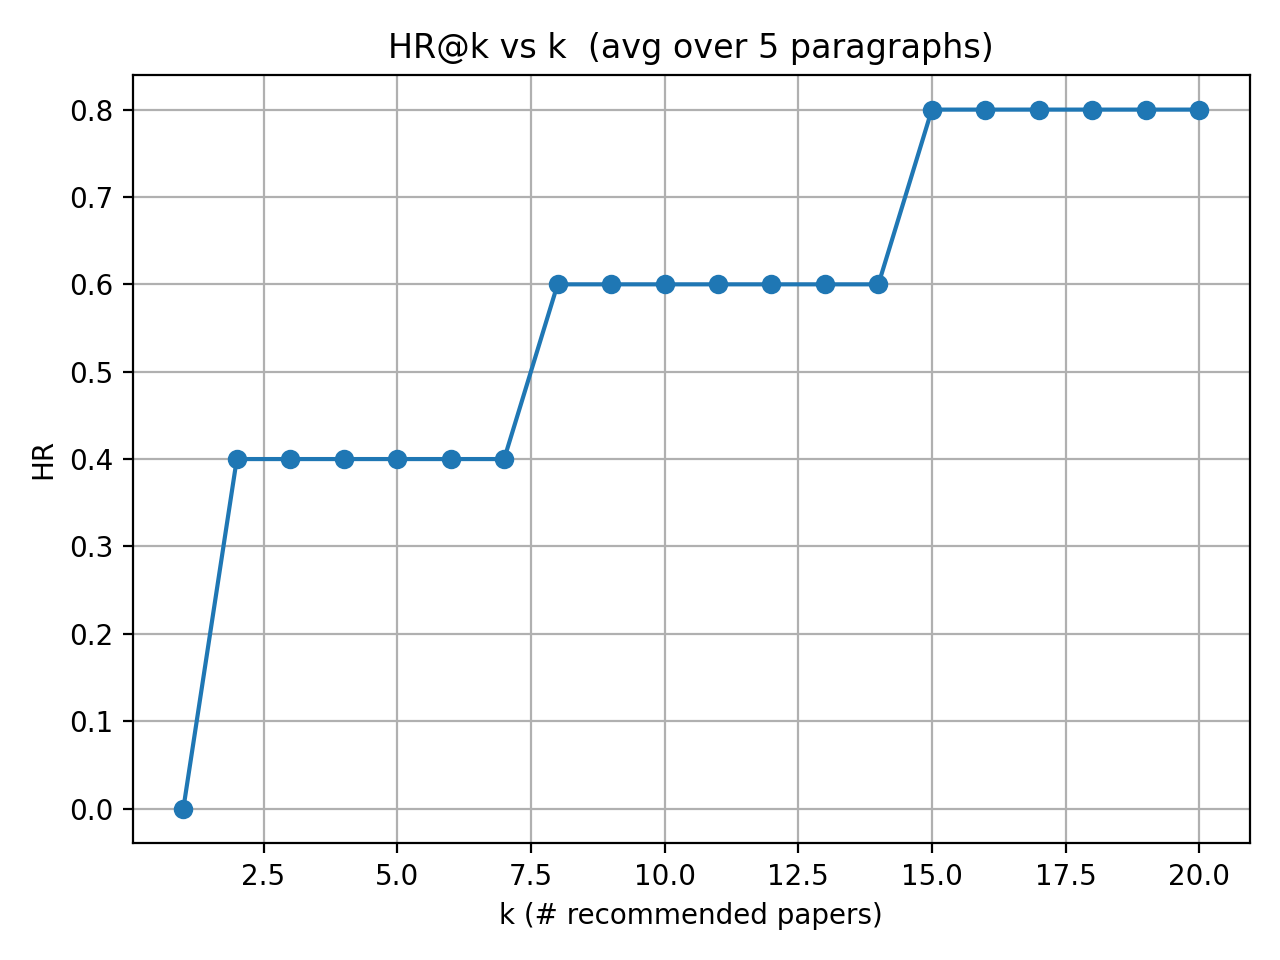
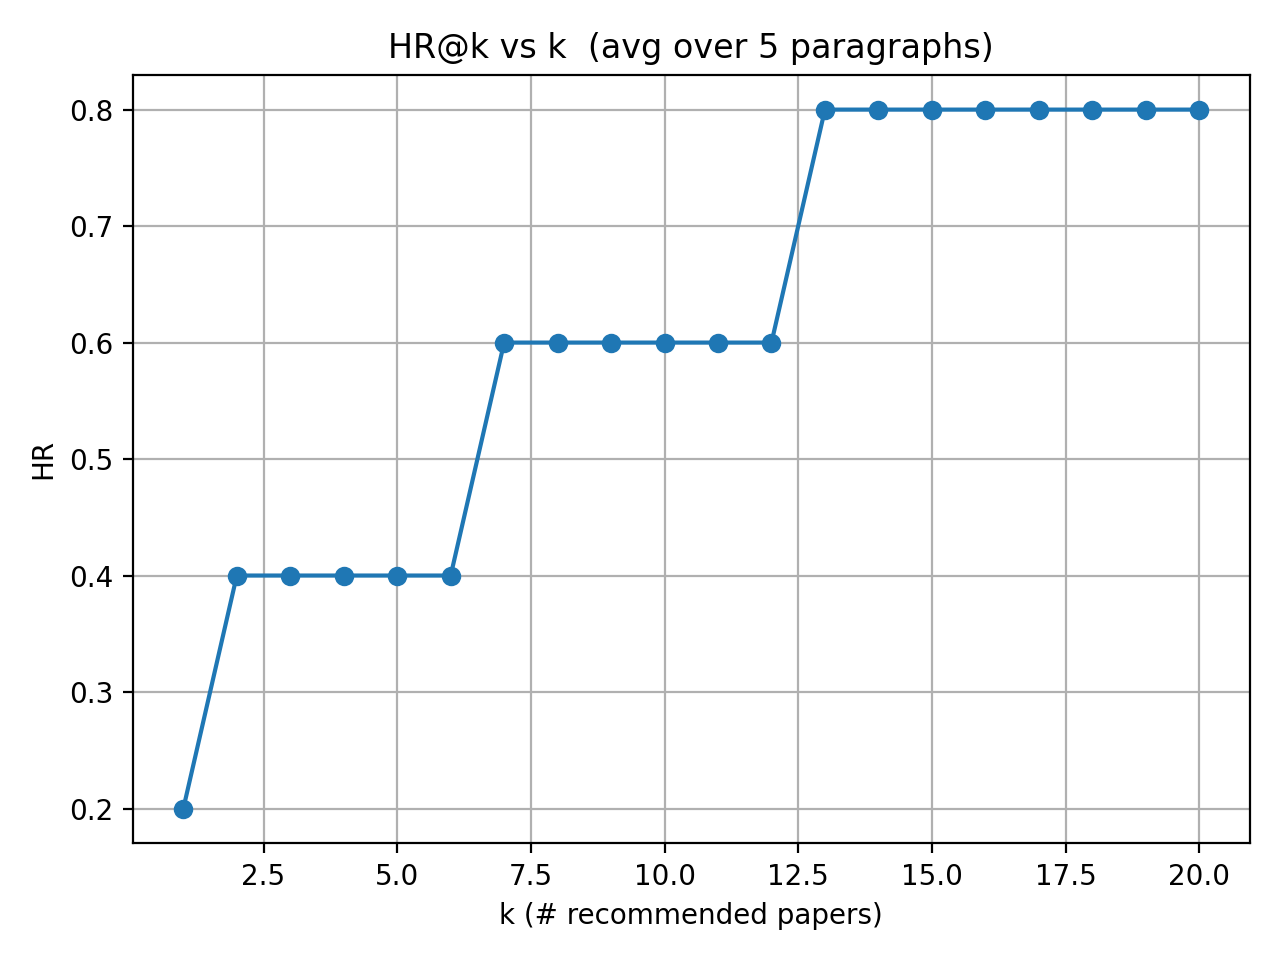
Added comments

diff --git a/main/llm/eval_llm_full.py b/main/llm/eval_llm_full.py
@@ -1,6 +1,5 @@
 
-# This is new evaluation code. It considers only 
-
+# This is full BM25 only - no hops, no chunks
 from __future__ import annotations
 import os
 import numpy as np
@@ -18,13 +17,11 @@ from recall import (
 from rerank_llm import rerank_batch, RerankError  # returns DataFrame with pid, score
 import matplotlib.pyplot as plt         
 
-
 # config
 TESTSET_PATH  = Path(os.getenv("TESTSET_PATH", "/home/abhi/Desktop/Manami/recommender-system/datasets/testset_2020_references.jsonl"))
-MAX_CASES     = int(os.getenv("MAX_CASES", 5)) # Number of test cases to evaluate
+MAX_CASES     = int(os.getenv("MAX_CASES", 100)) # Number of test cases to evaluate
 SIM_THRESHOLD = float(os.getenv("SIM_THRESHOLD", 0.95))
 TOPK_LIST     = (1, 2, 3, 4, 5, 6, 7, 8, 9, 10, 11, 12, 13, 14, 15, 16, 17, 18, 19, 20) # K-values for evaluation metrics
-
 
 # Neo4j connection
 _NEO4J_URI  = os.getenv("NEO4J_URI",  "bolt://localhost:7687")
@@ -35,9 +32,10 @@ _driver     = GraphDatabase.driver(_NEO4J_URI, auth=(_NEO4J_USER, _NEO4J_PASS))
 # Tokenizer for chunking
 TOKENIZER  = AutoTokenizer.from_pretrained("meta-llama/Meta-Llama-3.1-8B-Instruct", use_fast=True)
 
-# helpers
+# cosine similarity 
 def cosine_matrix(a: np.ndarray, b: np.ndarray) -> np.ndarray:
     return a @ b.T
+
 
 def evaluate_case(
     paragraph: str,
@@ -48,47 +46,53 @@ def evaluate_case(
     # so that BM25 and embeddings both work on normalized text.
     cleaned = clean_text(paragraph)
 
-    # 1) This runs a full-text BM25 search over my paragraph document index, returning the top 40 candidate paper IDs along with their BM25 scores.
-    bm25 = recall_fulltext(cleaned, k=20)
+    # This runs a full-text BM25 search over my paragraph document index, returning the top 40 candidate paper IDs (because many abstract might be missed) along with their BM25 scores.
+    # BM25 does consider paragraph length as well so better than tf-idf
+    bm25 = recall_fulltext(cleaned, k=50)
 
-    # 2) I pull each candidate’s abstract and publication year from Neo4j, 
-    # drop any papers missing an abstract, and filter out papers published after the paragraph’s target year.
+    # I pull each candidate’s abstract and publication year from Neo4j, 
+    # drop any papers missing an abstract. 
     meta   = fetch_metadata(bm25["pid"].tolist())
     merged = (
         bm25
         .merge(meta[["pid", "title", "abstract", "year"]], on="pid", how="left")
         .dropna(subset=["abstract"])
+        .sort_values("bm25_score", ascending=False)   # explicit sort
+        .head(20)
     )
+
+    # This fillter out the future papers but now the year is set to 2020 (latest in the dataset) so it does not matter. 
     if target_year is not None:
         merged = merged[merged["year"] < target_year]
     if merged.empty:
         raise ValueError("Empty candidate set after filtering by year and abstract")
-
+    
+    # Ask the LLM to rerank your 20 candidates by relevance to the paragraph.
     try:
         reranked = rerank_batch(
             paragraph,
             merged[["pid","title","abstract"]],
             k=20,
-            # batch_size=…  you can tune this
         )
         final_pids = reranked["pid"].tolist()
+    # On failure, just keep the original BM25 ordering.
     except RerankError as e:
         print("⚠ Rerank failed, fallback to BM25 order:", e)
         final_pids = merged["pid"].tolist()
 
-    # 3) fetch and embed all the true reference papers’ abstracts. 
+    # fetch and embed all the true reference papers’ abstracts. 
     # If none have valid abstracts, create a zero-matrix so that nothing is ever “similar.”
     ref_meta = fetch_metadata([str(p) for p in true_pids]).dropna(subset=["abstract"])
     ref_ids  = list(ref_meta["pid"])
     ref_embs = np.stack([embed(a) for a in ref_meta["abstract"]]) if ref_ids else np.zeros((0,768))
 
-
-    # 7) Embed each candidate’s abstract
+    # Embed each candidate’s abstract
     cand_meta = merged.set_index("pid").loc[final_pids]
     cand_absts = cand_meta["abstract"].tolist()
     cand_embs  = np.stack([embed(a) for a in cand_absts])
 
-    # 8) Compute full similarity matrix: candidates × references
+    # Keep the references still unmatched 
+    # If the similarity is more than 0.95, mark that candidate as a hit and remove the reference from future matching.
     sims      = cosine_matrix(cand_embs, ref_embs) if ref_ids else np.zeros((len(final_pids),0))
     unmatched = set(range(len(ref_ids)))
     hits      = []
@@ -97,10 +101,14 @@ def evaluate_case(
         if not unmatched:
             hits.append(False)
             continue
+
+        # look only at still‐unmatched references
         ref_idxs = list(unmatched)
         sim_vals = sims[i, ref_idxs]
         j = sim_vals.argmax()
         if sim_vals[j] >= SIM_THRESHOLD:
+
+            # mark both candidate as hit, and remove that ref
             hits.append(True)
             unmatched.remove(ref_idxs[j])
         else:
@@ -124,11 +132,12 @@ def evaluate_case(
         out.update({f"P@{k}": p_at_k, f"HR@{k}": hr_at_k, f"R@{k}": r_at_k, f"NDCG@{k}": ndcg})
     return out
 
-# main function
-# Runs evaluation over the test cases and prints the average metrics.
+
 import matplotlib
 matplotlib.use("Agg") 
 
+# main function
+# Runs evaluation over the test cases and prints the average metrics.
 def main() -> None:
     if not TESTSET_PATH.exists():
         raise FileNotFoundError(f"Testset not found at {TESTSET_PATH}")
@@ -144,7 +153,7 @@ def main() -> None:
         )
     metric_df = pd.DataFrame(metrics)
     ks = np.array(TOPK_LIST)
-    # 2) evaluate each paragraph and tag with method name
+
     rows: List[dict] = []
     for rec in df.to_dict("records"):
         m = evaluate_case(
@@ -152,23 +161,13 @@ def main() -> None:
             [str(pid) for pid in rec.get("references", [])],
             rec.get("year")
         )
-        m["method"] = "bm25_full_llm"   # change this tag per script
+        m["method"] = "bm25_full_llm"  
         rows.append(m)
-
-    # 3) build DataFrame, write to CSV
-    metric_df = pd.DataFrame(rows)
-    out_csv   = Path(__file__).parent / "eval" / "metrics_bm25_full_llm.csv"
-    metric_df.to_csv(out_csv, index=False)
-    print(f"\nSaved per‐paragraph metrics to {out_csv}")
-
-    # 4) (optional) print average metrics
-    avg = metric_df.mean(numeric_only=True).round(4)
-    print("\nAverage metrics:\n", avg)
 
     for prefix in ["P", "HR", "R", "NDCG"]:
         y = metric_df[[f"{prefix}@{k}" for k in ks]].mean().values
 
-        # 1) create & plot
+        # create & plot
         plt.figure()
         plt.plot(ks, y, marker="o")
         plt.title(f"{prefix}@k vs k  (averaged over {len(metric_df)} paragraphs)")
@@ -178,13 +177,21 @@ def main() -> None:
         plt.tight_layout()
         plt.show()
 
-        # 2) save and close
-        plt.savefig(Path(__file__).parent / "csv" / f"{prefix.lower()}_atk.png", dpi=200)
+        # save and close
+        plt.savefig(Path(__file__).parent / "eval" / f"{prefix.lower()}_atk.png", dpi=200)
         plt.close()
 
     avg = pd.DataFrame(metrics).mean(numeric_only=True)
     print("\nEvaluation with RRF + LLM scoring - avg metrics:\n", avg.round(4))
 
+    # build DataFrame and write to CSV
+    metric_df = pd.DataFrame(rows)
+    out_csv   = Path(__file__).parent / "csv" / "metrics_bm25_full_llm.csv"
+    metric_df.to_csv(out_csv, index=False)
+    print(f"\nSaved per‐paragraph metrics to {out_csv}")
+
+    avg = metric_df.mean(numeric_only=True).round(4)
+    print("\nAverage metrics:\n", avg)
 
 if __name__ == "__main__":
     main()

diff --git a/main/llm/eval_bm25.py b/main/llm/eval_bm25.py
@@ -1,5 +1,4 @@
-# BM25 full search 
-
+# BM25 full-only search 
 import os
 from pathlib import Path
 from typing import List, Optional
@@ -14,44 +13,20 @@ import matplotlib.pyplot as plt
 
 # Hard-coded testset path and params
 TESTSET_PATH   = Path("/home/abhi/Desktop/Manami/recommender-system/datasets/testset_2020_references.jsonl")
-MAX_CASES      = 5
+MAX_CASES      = 100  # How many paragraphs to consider
 SIM_THRESHOLD  = 0.95
 TOPK_LIST     = (1, 2, 3, 4, 5, 6, 7, 8, 9, 10, 11, 12, 13, 14, 15, 16, 17, 18, 19, 20) # K-values for evaluation metrics
 
-# Neo4j
+# Neo4j database
 NEO4J_URI  = os.getenv("NEO4J_URI",  "bolt://localhost:7687")
 NEO4J_USER = os.getenv("NEO4J_USER", "neo4j")
 NEO4J_PASS = os.getenv("NEO4J_PASS", "Manami1008")
 driver     = GraphDatabase.driver(NEO4J_URI, auth=(NEO4J_USER, NEO4J_PASS))
 
 
-# cosign similarity, precision, HR, recall, NDCG, year sort
+# cosign similarity
 def cosine_matrix(a: np.ndarray, b: np.ndarray) -> np.ndarray:
     return a @ b.T
-
-def precision_by_sim(pred, sim_map, k):
-    return sum(sim_map.get(p, False) for p in pred[:k]) / k if k else 0.0
-
-def recall_by_sim(pred, sim_map, k, n_rel):
-    if n_rel == 0: return 0.0
-    return sum(sim_map.get(p, False) for p in pred[:k]) / n_rel
-
-def hit_rate_by_sim(pred, sim_map, k):
-    return float(any(sim_map.get(p, False) for p in pred[:k]))
-
-def ndcg_by_sim(pred, sim_map, k):
-    rels  = [1 if sim_map.get(p, False) else 0 for p in pred[:k]]
-    dcg   = sum(r / np.log2(i+2) for i, r in enumerate(rels))
-    ideal = sorted(rels, reverse=True)
-    idcg  = sum(r / np.log2(i+2) for i, r in enumerate(ideal))
-    return dcg/idcg if idcg > 0 else 0.0
-
-def fetch_year_by_doi(doi: Optional[str]) -> Optional[int]:
-    if not doi: return None
-    query = "MATCH (p:Paper {doi: $doi}) RETURN p.year AS year"
-    with driver.session() as sess:
-        rec = sess.run(query, doi=doi).single()
-    return rec["year"] if rec and rec["year"] is not None else None
 
 
 def evaluate_case(
@@ -64,36 +39,41 @@ def evaluate_case(
     # so that BM25 and embeddings both work on normalized text.
     cleaned = clean_text(paragraph)
 
-    # 1) This runs a full-text BM25 search over my paragraph document index, returning the top 40 candidate paper IDs along with their BM25 scores.
-    bm25 = recall_fulltext(cleaned, k=20)
+    # This runs a full-text BM25 search over my paragraph document index, returning the top 40 candidate paper IDs (because many abstract might be missed) along with their BM25 scores.
+    # BM25 does consider paragraph length as well so better than tf-idf
+    bm25 = recall_fulltext(cleaned, k=50)
 
-    # 2) I pull each candidate’s abstract and publication year from Neo4j, 
-    # drop any papers missing an abstract, and filter out papers published after the paragraph’s target year.
+    # I pull each candidate’s abstract and publication year from Neo4j, 
+    # drop any papers missing an abstract. 
     meta   = fetch_metadata(bm25["pid"].tolist())
     merged = (
         bm25
         .merge(meta[["pid","abstract","year"]], on="pid", how="left")
-        .dropna(subset=["abstract"])
+        .dropna(subset=["abstract"]) 
+        .sort_values("bm25_score", ascending=False)   # explicit sort
+        .head(20)
     )
+
+    # This fillter out the future papers but now the year is set to 2020 (latest in the dataset) so it does not matter. 
     if target_year is not None:
         merged = merged[merged["year"] < target_year]
 
-    # 3) fetch and embed all the true reference papers’ abstracts. 
+    # fetch and embed all the true reference papers’ abstracts. 
     # If none have valid abstracts, create a zero-matrix so that nothing is ever “similar.”
     ref_meta = fetch_metadata([str(p) for p in true_pids]).dropna(subset=["abstract"])
     ref_ids  = list(ref_meta["pid"])
     ref_embs = np.stack([embed(a) for a in ref_meta["abstract"]]) if ref_ids else np.zeros((0,768))
 
-
-    # 7) Embed each candidate’s abstract
+    # Embed each candidate’s abstract
     cand_ids   = merged["pid"].tolist()
     cand_absts = merged["abstract"].tolist()
     cand_embs  = np.stack([embed(a) for a in cand_absts])
 
-    # 8) Compute full similarity matrix: candidates × references
+    # Compute full similarity matrix: candidates × references
     sims = cosine_matrix(cand_embs, ref_embs)  # shape (n_cand, n_ref)
 
-    # 9) Greedy one‐to‐one matching at threshold
+    # Keep the references still unmatched 
+    # If the similarity is more than 0.95, mark that candidate as a hit and remove the reference from future matching.
     unmatched = set(range(len(ref_ids)))   # indices of refs not yet covered
     hits      = []  # for each candidate, store whether it “covers” a new ref
 
@@ -114,7 +94,7 @@ def evaluate_case(
         else:
             hits.append(False)
 
-    # 10) Build metrics using this “hits” list
+    # these are the metrics to show the accuracy of the system 
     n_rel = len(ref_ids)
     results = {}
     for k in TOPK_LIST:
@@ -126,7 +106,6 @@ def evaluate_case(
         idcg = sum(1 / np.log2(i + 2) for i in range(min(n_rel, k)))
         ndcg = (dcg / idcg) if idcg else 0.0
         results.update({f"P@{k}": p_at_k, f"HR@{k}": hr_at_k, f"R@{k}": r_at_k, f"NDCG@{k}": ndcg})
-
     return results
 
 def main() -> None:
@@ -145,7 +124,7 @@ def main() -> None:
     print("\nBM25 + LLM rerank (k=20) average metrics:\n")
     print(metric_df.mean(numeric_only=True).round(4))
 
-    # plotting (optional)
+    # plotting 
     ks = np.array(TOPK_LIST)
     for prefix in ["P","HR","R","NDCG"]:
         y = metric_df[[f"{prefix}@{k}" for k in ks]].mean().values
@@ -169,12 +148,12 @@ def main() -> None:
         m["method"] = "bm25_full"                   
         rows.append(m)
 
-    # 3) build DataFrame and write to CSV
+    # build DataFrame and write to CSV
     metric_df = pd.DataFrame(rows)
     out_path = Path(__file__).parent / "csv" / "metrics_bm25_full.csv"
     metric_df.to_csv(out_path, index=False)
 
-    # 4) print average metrics
+    # print average metrics
     print("\nBM25 full-text average metrics:\n",
           metric_df.mean(numeric_only=True).round(4))
 

diff --git a/main/llm/eval_ctx_llm.py b/main/llm/eval_ctx_llm.py
@@ -1,6 +1,5 @@
 
 # This is evaluation code which considers 60 candidates and do embedding search as well
-
 from __future__ import annotations
 import os
 import json
@@ -22,13 +21,11 @@ from recall import (
 from rerank_llm import rerank_batch, RerankError  # returns DataFrame with pid, score
 import matplotlib.pyplot as plt         
 
-
 # config
 TESTSET_PATH  = Path(os.getenv("TESTSET_PATH", "/home/abhi/Desktop/Manami/recommender-system/datasets/testset_2020_references.jsonl"))
 MAX_CASES     = int(os.getenv("MAX_CASES", 5)) # Number of test cases to evaluate
 SIM_THRESHOLD = float(os.getenv("SIM_THRESHOLD", 0.95))
 TOPK_LIST     = (1, 2, 3, 4, 5, 6, 7, 8, 9, 10, 11, 12, 13, 14, 15, 16, 17, 18, 19, 20) # K-values for evaluation metrics
-
 
 # Neo4j connection
 _NEO4J_URI  = os.getenv("NEO4J_URI",  "bolt://localhost:7687")
@@ -39,7 +36,7 @@ _driver     = GraphDatabase.driver(_NEO4J_URI, auth=(_NEO4J_USER, _NEO4J_PASS))
 # Tokenizer for chunking
 TOKENIZER  = AutoTokenizer.from_pretrained("meta-llama/Meta-Llama-3.1-8B-Instruct", use_fast=True)
 
-# helpers
+# cosine similarity 
 def cosine_matrix(a: np.ndarray, b: np.ndarray) -> np.ndarray:
     return a @ b.T
 
@@ -48,11 +45,12 @@ def evaluate_case(
     true_pids: List[str],
     target_year: Optional[int] = None
 ) -> dict:
-    # 1. clean & chunk paragraph
+    # take the raw paragraph, clean it (lower-casing, removing punctuation/stopwords, etc.), 
+    # so that BM25 and embeddings both work on normalized text.
     cleaned = clean_text(paragraph)
     chunks  = chunk_tokens(cleaned, TOKENIZER, win=256, stride=64)
 
-    # 2. recall & fuse with reciprocal rank fusion (RRF)
+    # recall & fuse with reciprocal rank fusion (RRF)
     # full-text & vector for whole paragraph
     full_bm25 = recall_fulltext(cleaned).assign(src="full_bm25")
     full_vec  = recall_vector(embed(cleaned)).assign(src="full_vec")

diff --git a/main/llm/merge_plot.py b/main/llm/merge_plot.py
@@ -5,8 +5,8 @@ import matplotlib.pyplot as plt
 files = [
     "metrics_bm25_full.csv",
     "metrics_bm25_full_llm.csv",
-    "metrics_bm25_hop.csv",
-    "metrics_bm25_hop_llm.csv",
+    "metrics_rrf_chunk.csv",
+    "metrics_bm25_hop_rerank.csv",
 ]
 dfs = [pd.read_csv(f"./csv/{fn}") for fn in files]
 
